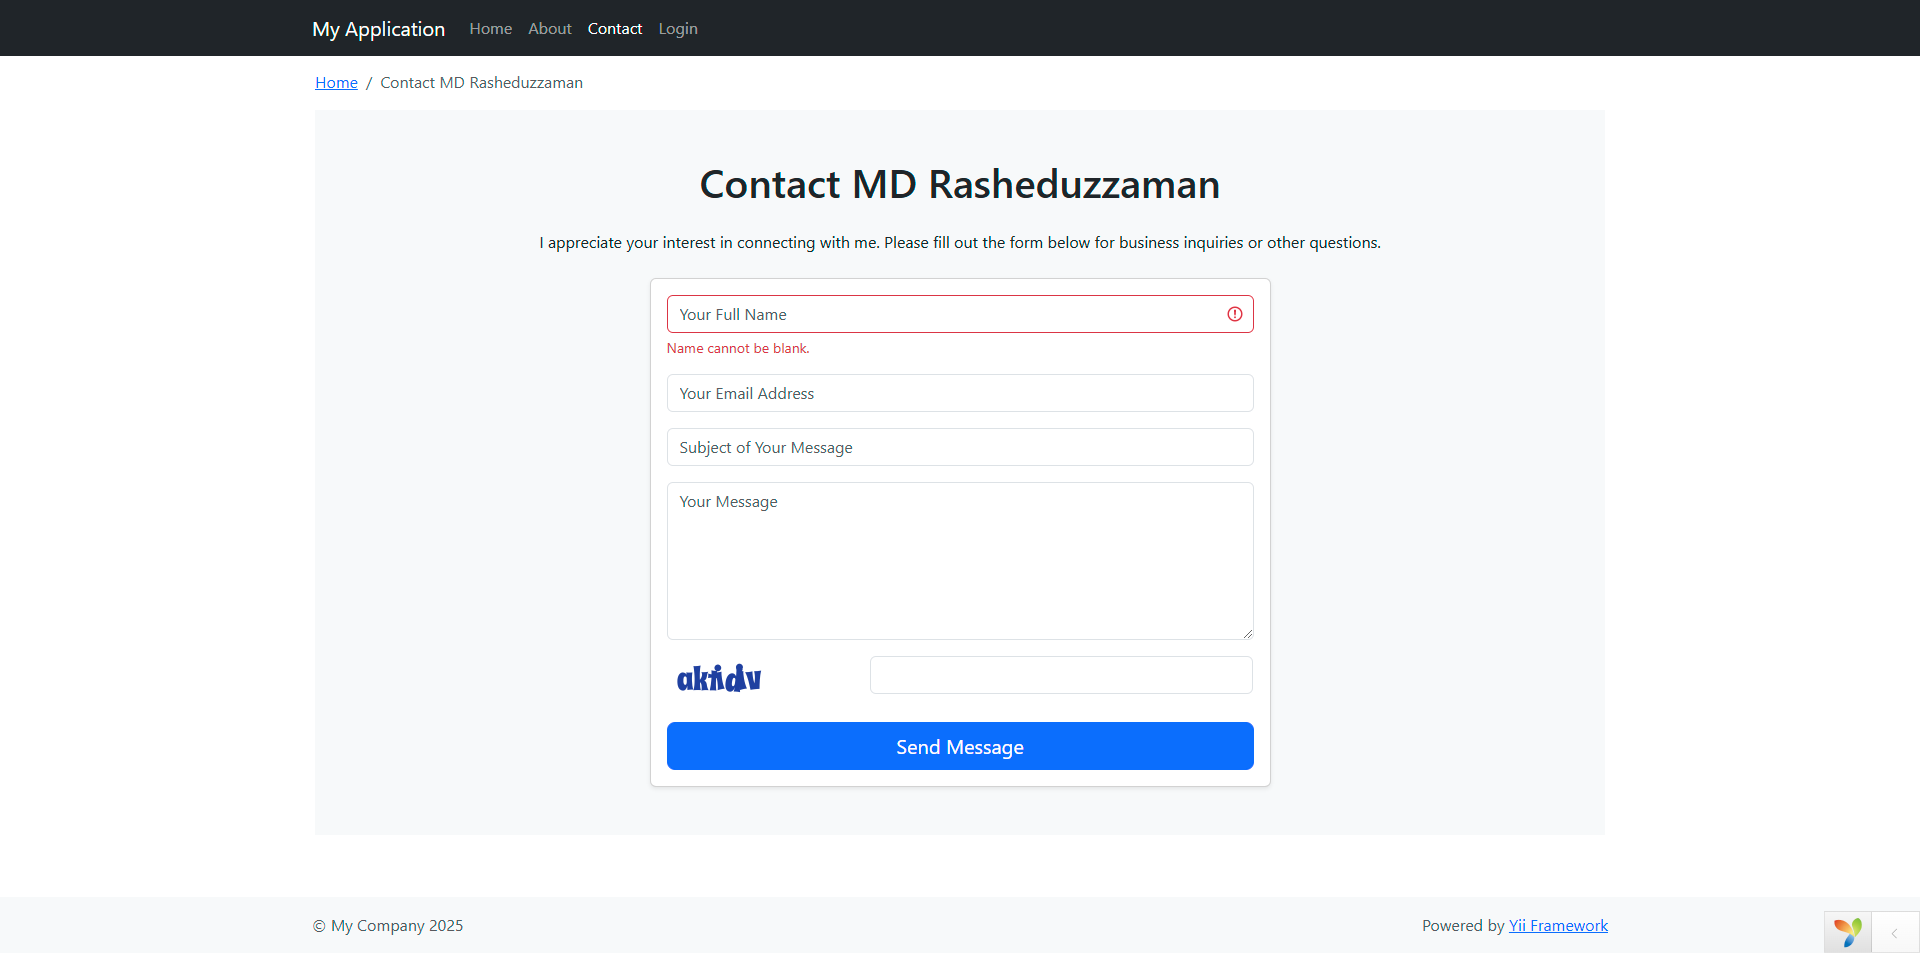
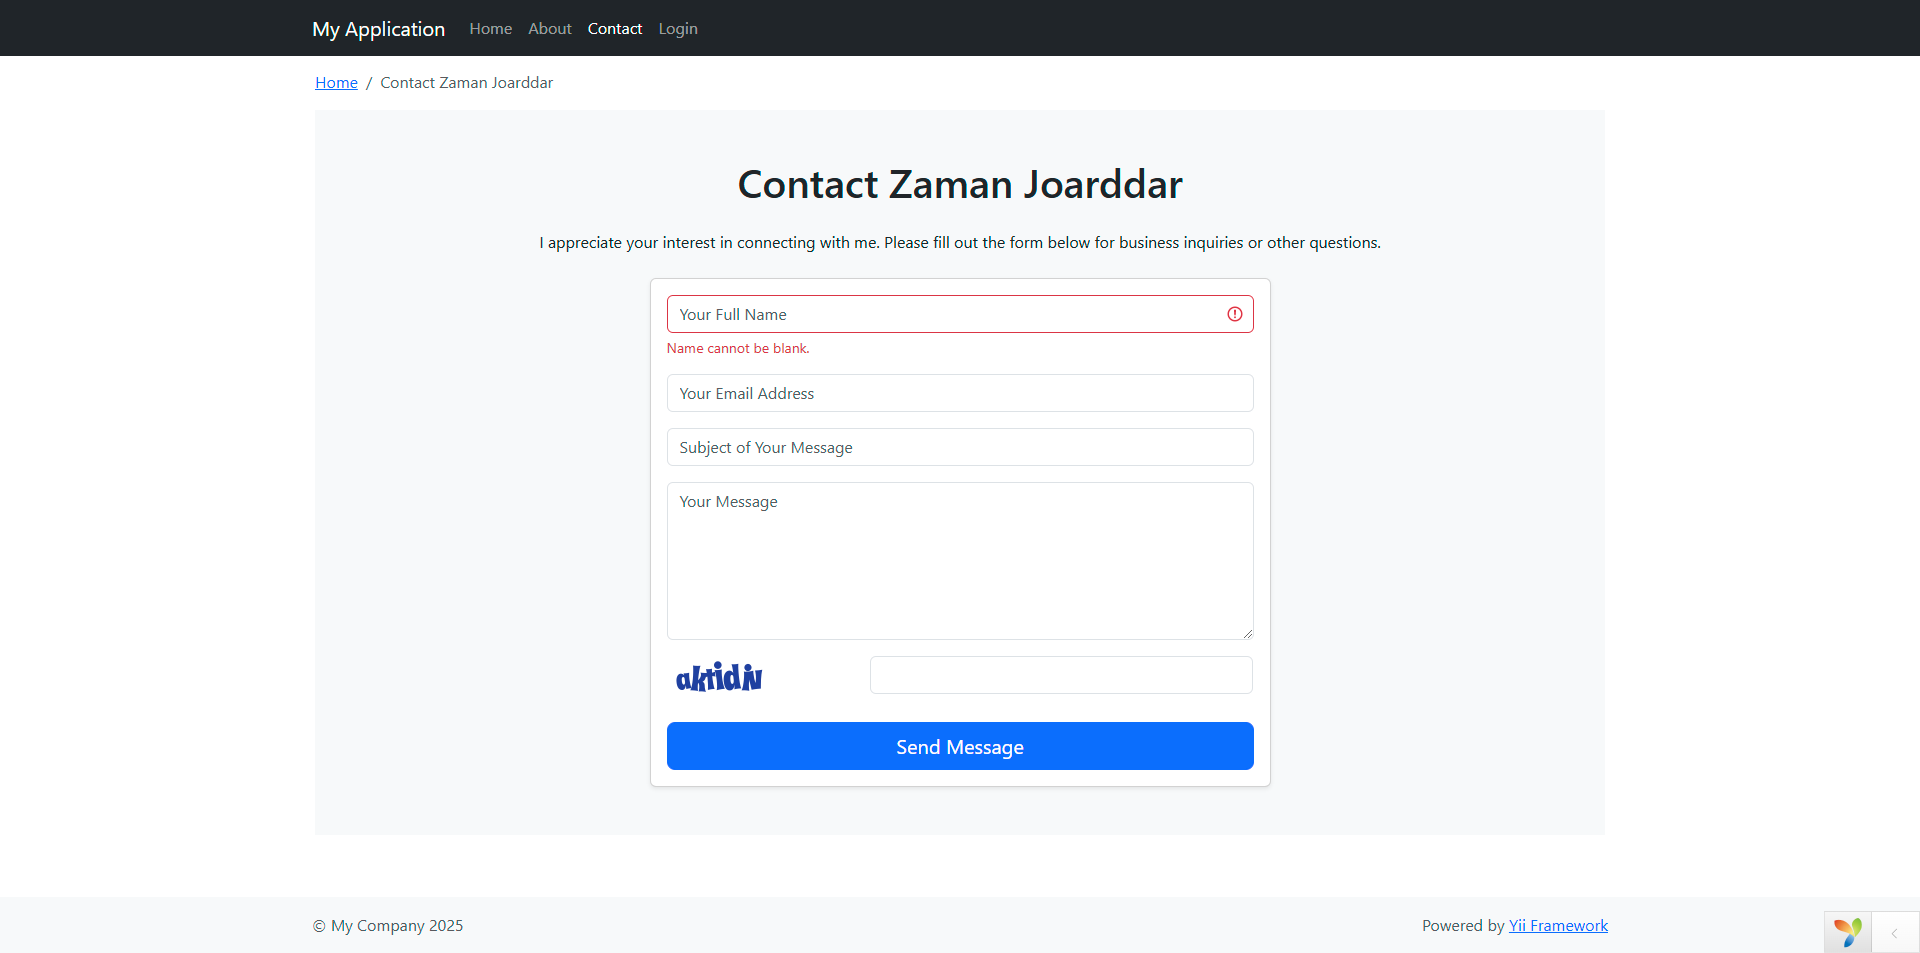
update homepage

Changed region(s): [[0.3438, 0.1826, 0.6562, 0.213], [0.2188, 0.0609, 0.3125, 0.0913], [0.3438, 0.6999, 0.4062, 0.7303]]

diff --git a/views/site/about.php b/views/site/about.php
@@ -4,7 +4,7 @@
 
 use yii\helpers\Html;
 
-$this->title = 'About MD Rasheduzzaman';
+$this->title = 'About Zaman Joarddar';
 $this->params['breadcrumbs'][] = $this->title;
 
 ?>
@@ -19,7 +19,7 @@ $this->params['breadcrumbs'][] = $this->title;
                     <div class="card-body">
                         <h2 class="h3">Introduction</h2>
                         <p>
-                            Hello, I am MD Rasheduzzaman, a passionate and results-driven Project Manager with over 9 years of experience in full-stack development, team leadership, and project management. I specialize in delivering scalable, high-performance solutions using various technologies, including PHP, Node.js, Laravel, React, and more. My expertise lies in overseeing remote teams, managing project lifecycles, and driving innovative tech solutions to help businesses achieve their goals.
+                            Hello, I am Zaman Joarddar, a passionate and results-driven Project Manager with over 9 years of experience in full-stack development, team leadership, and project management. I specialize in delivering scalable, high-performance solutions using various technologies, including PHP, Node.js, Laravel, React, and more. My expertise lies in overseeing remote teams, managing project lifecycles, and driving innovative tech solutions to help businesses achieve their goals.
                         </p>
 
                         <h2 class="h3">Why I Love Computer Science</h2>

diff --git a/views/site/contact.php b/views/site/contact.php
@@ -8,7 +8,7 @@ use yii\bootstrap5\ActiveForm;
 use yii\bootstrap5\Html;
 use yii\captcha\Captcha;
 
-$this->title = 'Contact MD Rasheduzzaman';
+$this->title = 'Contact Zaman Joarddar';
 $this->params['breadcrumbs'][] = $this->title;
 ?>
 <div class="site-contact py-5 bg-light">
